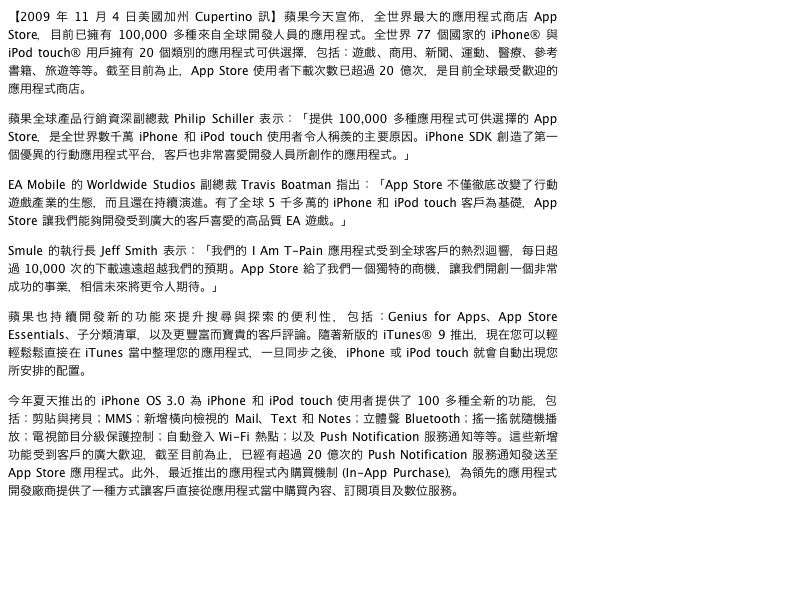
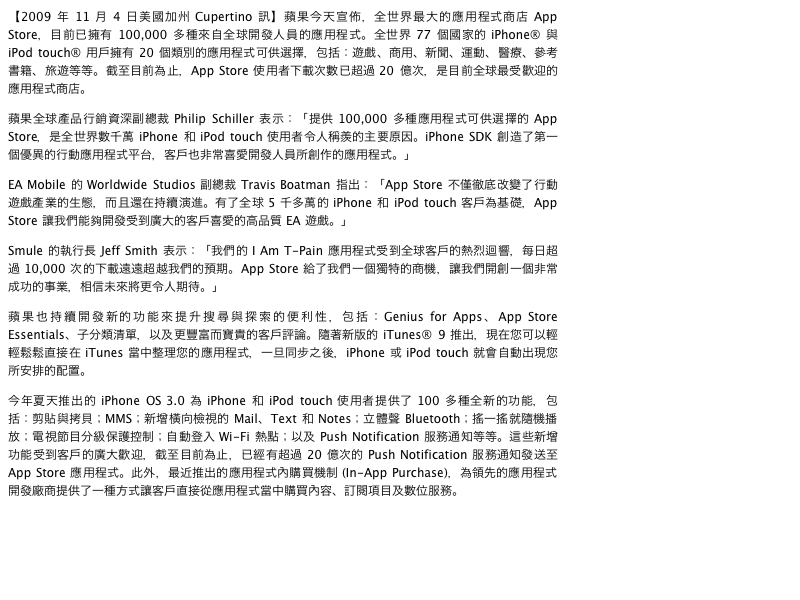
Inter-ideograph justification should apply to hiragana and katakana as well https://bugs.webkit.org/show_bug.cgi?id=53464
Reviewed by Adele Peterson.

Source/WebCore: 

Changed the test for expansion opportunities from isCJKIdeograph() to isCJKIdeographOrSymbol().

* platform/graphics/Font.cpp:
(WebCore::Font::expansionOpportunityCount):
* platform/graphics/WidthIterator.cpp:
(WebCore::WidthIterator::advance):
* platform/graphics/mac/ComplexTextController.cpp:
(WebCore::ComplexTextController::adjustGlyphsAndAdvances):

LayoutTests: 

* platform/mac/fast/text/justify-ideograph-complex-expected.checksum:
* platform/mac/fast/text/justify-ideograph-complex-expected.png:
* platform/mac/fast/text/justify-ideograph-simple-expected.checksum:
* platform/mac/fast/text/justify-ideograph-simple-expected.png:
* platform/mac/fast/text/justify-ideograph-vertical-expected.checksum:
* platform/mac/fast/text/justify-ideograph-vertical-expected.png:

git-svn-id: https://svn.webkit.org/repository/webkit/trunk@77173 268f45cc-cd09-0410-ab3c-d52691b4dbfc

diff --git a/Source/WebCore/platform/graphics/Font.cpp b/Source/WebCore/platform/graphics/Font.cpp
@@ -474,7 +474,7 @@ unsigned Font::expansionOpportunityCount(const UChar* characters, size_t length,
                 character = U16_GET_SUPPLEMENTARY(character, characters[i + 1]);
                 i++;
             }
-            if (expandAroundIdeographs && isCJKIdeograph(character)) {
+            if (expandAroundIdeographs && isCJKIdeographOrSymbol(character)) {
                 if (!isAfterExpansion)
                     count++;
                 count++;
@@ -495,7 +495,7 @@ unsigned Font::expansionOpportunityCount(const UChar* characters, size_t length,
                 character = U16_GET_SUPPLEMENTARY(characters[i - 2], character);
                 i--;
             }
-            if (expandAroundIdeographs && isCJKIdeograph(character)) {
+            if (expandAroundIdeographs && isCJKIdeographOrSymbol(character)) {
                 if (!isAfterExpansion)
                     count++;
                 count++;

diff --git a/Source/WebCore/platform/graphics/WidthIterator.cpp b/Source/WebCore/platform/graphics/WidthIterator.cpp
@@ -175,7 +175,7 @@ void WidthIterator::advance(int offset, GlyphBuffer* glyphBuffer)
 
             static bool expandAroundIdeographs = Font::canExpandAroundIdeographsInComplexText();
             bool treatAsSpace = Font::treatAsSpace(c);
-            if (treatAsSpace || (expandAroundIdeographs && Font::isCJKIdeograph(c))) {
+            if (treatAsSpace || (expandAroundIdeographs && Font::isCJKIdeographOrSymbol(c))) {
                 // Distribute the run's total expansion evenly over all expansion opportunities in the run.
                 if (m_expansion && (m_run.allowsTrailingExpansion() || (m_run.ltr() && currentCharacter + clusterLength < static_cast<size_t>(m_run.length()))
                     || (m_run.rtl() && currentCharacter))) {

diff --git a/Source/WebCore/platform/graphics/mac/ComplexTextController.cpp b/Source/WebCore/platform/graphics/mac/ComplexTextController.cpp
@@ -489,7 +489,7 @@ void ComplexTextController::adjustGlyphsAndAdvances()
                     advance.width += m_font.letterSpacing();
 
                 // Handle justification and word-spacing.
-                if (treatAsSpace || Font::isCJKIdeograph(ch)) {
+                if (treatAsSpace || Font::isCJKIdeographOrSymbol(ch)) {
                     // Distribute the run's total expansion evenly over all expansion opportunities in the run.
                     if (m_expansion && (!lastGlyph || m_run.allowsTrailingExpansion())) {
                         float previousExpansion = m_expansion;
